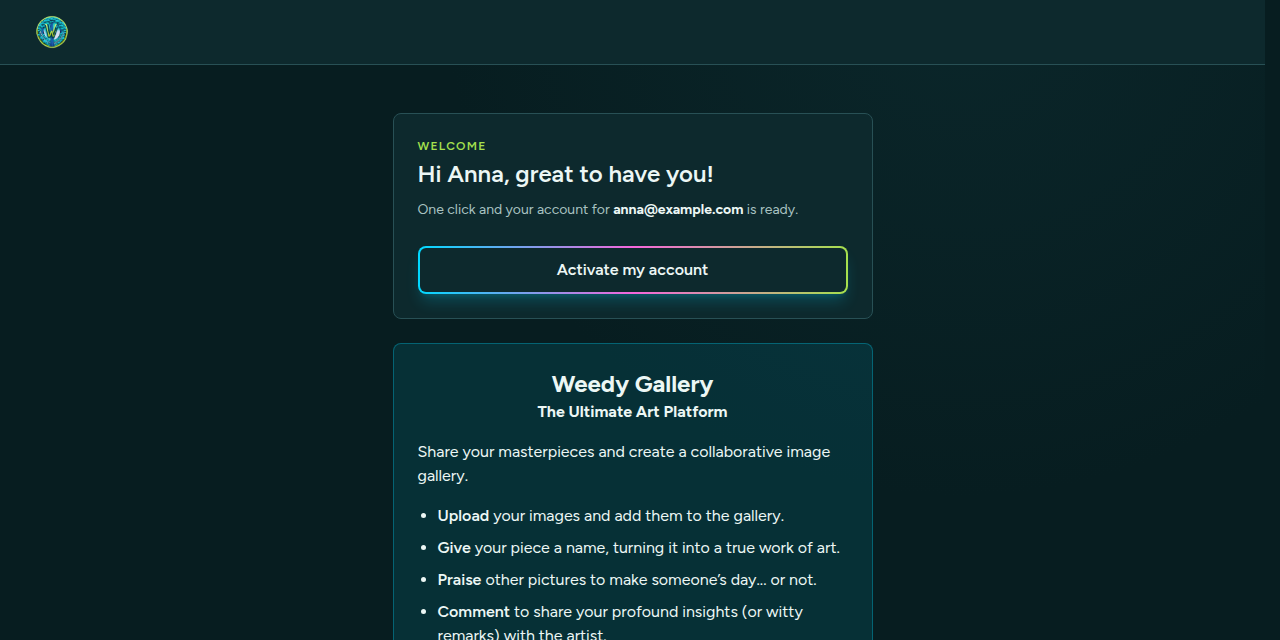
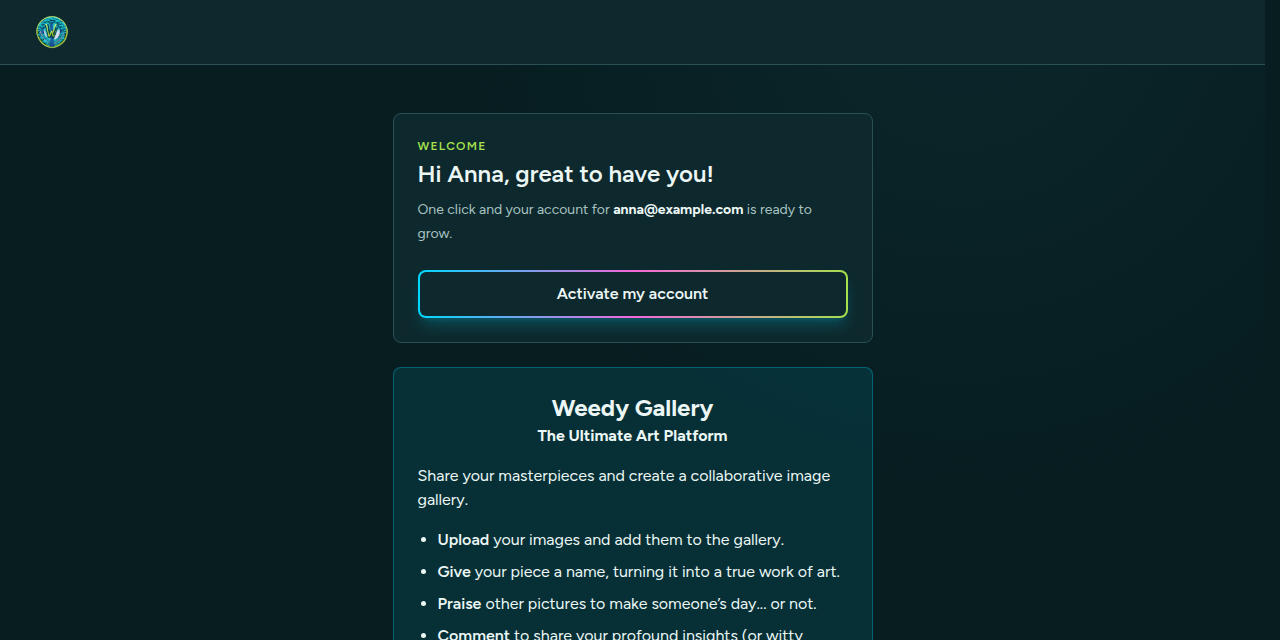
fix(profile): email change link only shows a button, the user confirms it
Like the registration link: a mail scanner opening the link no longer
switches the email, the POST from the button does. Both pages share
x-glow-button. Review of PR #5, point 3 (FEAT-021).

diff --git a/src/tests/Feature/EmailChangeTest.php b/src/tests/Feature/EmailChangeTest.php
@@ -73,7 +73,7 @@ class EmailChangeTest extends TestCase
 
         // Opened on another device without being logged in
         $this->post('/logout');
-        $this->get($link)->assertRedirect(route('login'))->assertSessionHas('status');
+        $this->post($link)->assertRedirect(route('login'))->assertSessionHas('status');
 
         $this->user->refresh();
         $this->assertSame('new@example.com', $this->user->email);
@@ -84,14 +84,17 @@ class EmailChangeTest extends TestCase
         $this->assertAuthenticatedAs($this->user);
     }
 
-    public function test_second_click_after_a_mail_scanner_says_the_email_is_changed(): void
+    public function test_opening_the_link_only_shows_the_button_and_a_used_link_says_changed(): void
     {
         $this->requestChange();
         $link = $this->linkSentTo('new@example.com');
         $this->post('/logout');
 
-        // The scanner opens the link first, then the user clicks it
-        $this->get($link);
+        // A mail scanner opening the link only gets the page with the button
+        $this->get($link)->assertOk()->assertSee('new@example.com')->assertSee('Confirm my new email');
+        $this->assertSame('old@example.com', $this->user->refresh()->email);
+
+        $this->post($link);
         $this->get($link)
             ->assertRedirect(route('login'))
             ->assertSessionHasNoErrors()
@@ -119,7 +122,7 @@ class EmailChangeTest extends TestCase
         $this->get($typoLink)->assertSessionHasErrors('email');
         $this->assertSame('old@example.com', $this->user->refresh()->email);
 
-        $this->get($this->linkSentTo('new@example.com'));
+        $this->post($this->linkSentTo('new@example.com'));
         $this->assertSame('new@example.com', $this->user->refresh()->email);
     }
 
@@ -151,7 +154,7 @@ class EmailChangeTest extends TestCase
         $link = $this->linkSentTo('new@example.com');
         User::factory()->create(['email' => 'new@example.com']);
 
-        $this->get($link)->assertSessionHasErrors('email');
+        $this->post($link)->assertSessionHasErrors('email');
 
         $this->user->refresh();
         $this->assertSame('old@example.com', $this->user->email);

diff --git a/src/app/Http/Controllers/ProfileController.php b/src/app/Http/Controllers/ProfileController.php
@@ -131,14 +131,28 @@ class ProfileController extends Controller
     }
 
     /**
-     * Switch to the pending email from the link in the mail. Needs no login, the signed link
-     * is the proof, so it also works on another device.
+     * The link in the mail only shows a button, so a mail scanner that opens it confirms nothing.
+     */
+    public function showEmailChange(Request $request, User $user, string $hash): View|RedirectResponse
+    {
+        if ($user->pending_email && hash_equals(sha1($user->pending_email), $hash)) {
+            // The signed query string is kept, the POST goes through the same signature check
+            return view('profile.confirm-email', ['user' => $user, 'action' => $request->fullUrl()]);
+        }
+
+        // Nothing to confirm: confirmEmailChange only answers with the matching message
+        return $this->confirmEmailChange($request, $user, $hash);
+    }
+
+    /**
+     * Switch to the pending email from the button on the link page. Needs no login, the signed
+     * link is the proof, so it also works on another device.
      */
     public function confirmEmailChange(Request $request, User $user, string $hash): RedirectResponse
     {
         $target = Auth::check() ? Redirect::route('profile.edit') : Redirect::route('login');
 
-        // Already switched by an earlier click, e.g. a mail scanner that opened the link first
+        // Already switched by an earlier click on the link
         if (hash_equals(sha1($user->email), $hash)) {
             $message = 'Your email is already changed to ' . $user->email . '.';
             return Auth::check() ? $target->with('notif.success', $message) : $target->with('status', $message);

diff --git a/src/resources/views/auth/register-confirm.blade.php b/src/resources/views/auth/register-confirm.blade.php
@@ -8,12 +8,6 @@
 
     <form class="mt-6" method="POST" action="{{ route('register.confirm', $token) }}">
         @csrf
-        {{-- gradient frame in the accent colors, fills on hover --}}
-        <button type="submit"
-            class="group block w-full rounded-lg bg-gradient-to-r from-c-primary via-c-secondary to-c-accent p-0.5 shadow-lg shadow-c-primary/20 transition hover:shadow-c-secondary/30 focus:outline-none focus-visible:ring-2 focus-visible:ring-c-accent focus-visible:ring-offset-2 focus-visible:ring-offset-c-background">
-            <span class="flex min-h-11 items-center justify-center rounded-md bg-c-surface px-4 font-semibold text-c-text transition-colors group-hover:bg-transparent group-hover:text-c-background">
-                {{ __('Activate my account') }}
-            </span>
-        </button>
+        <x-glow-button>{{ __('Activate my account') }}</x-glow-button>
     </form>
 </x-guest-layout>

diff --git a/src/routes/web.php b/src/routes/web.php
@@ -16,9 +16,11 @@ Route::view('/about', 'about')->name('about');
 Route::view('/impressum', 'impressum')->name('impressum');
 
 // Link from the mail after an email change in the profile, works without being logged in
-Route::get('/profile/email/confirm/{user}/{hash}', [ProfileController::class, 'confirmEmailChange'])
+Route::get('/profile/email/confirm/{user}/{hash}', [ProfileController::class, 'showEmailChange'])
     ->middleware(['signed', 'throttle:6,1'])
     ->name('profile.email.confirm');
+Route::post('/profile/email/confirm/{user}/{hash}', [ProfileController::class, 'confirmEmailChange'])
+    ->middleware(['signed', 'throttle:6,1']);
 
 Route::middleware('auth', 'verified')->group(function () {
 

diff --git a/src/resources/views/components/glow-button.blade.php b/src/resources/views/components/glow-button.blade.php
@@ -1,0 +1,6 @@
+{{-- gradient frame in the accent colors, fills on hover --}}
+<button {{ $attributes->merge(['type' => 'submit', 'class' => 'group block w-full rounded-lg bg-gradient-to-r from-c-primary via-c-secondary to-c-accent p-0.5 shadow-lg shadow-c-primary/20 transition hover:shadow-c-secondary/30 focus:outline-none focus-visible:ring-2 focus-visible:ring-c-accent focus-visible:ring-offset-2 focus-visible:ring-offset-c-background']) }}>
+    <span class="flex min-h-11 items-center justify-center rounded-md bg-c-surface px-4 font-semibold text-c-text transition-colors group-hover:bg-transparent group-hover:text-c-background">
+        {{ $slot }}
+    </span>
+</button>

diff --git a/src/resources/views/profile/confirm-email.blade.php b/src/resources/views/profile/confirm-email.blade.php
@@ -1,0 +1,13 @@
+<x-guest-layout focused>
+    <p class="text-xs font-semibold uppercase tracking-widest text-c-accent">{{ __('Almost done') }}</p>
+    <h1 class="mt-1 text-2xl font-semibold text-c-text">{{ __('Hi :name, one last step!', ['name' => $user->name]) }}</h1>
+
+    <p class="mt-2 text-sm leading-6 text-c-muted">
+        {{ __('One click and your account uses') }} <strong class="text-c-text">{{ $user->pending_email }}</strong>.
+    </p>
+
+    <form class="mt-6" method="POST" action="{{ $action }}">
+        @csrf
+        <x-glow-button>{{ __('Confirm my new email') }}</x-glow-button>
+    </form>
+</x-guest-layout>

diff --git a/docs/features/FEAT-021-registration-link-safe-from-mail-scanners.md b/docs/features/FEAT-021-registration-link-safe-from-mail-scanners.md
@@ -1,6 +1,6 @@
 ---
 id: FEAT-021
-title: Registration link safe from mail scanners
+title: Registration and email change links safe from mail scanners
 status: done # backlog | todo | in-progress | review | done
 priority: high # low | medium | high
 category: bugfix # feature | enhancement | bugfix | ui | security
@@ -13,10 +13,10 @@ tags:
   - mail
 ---
 
-# Registration link safe from mail scanners
+# Registration and email change links safe from mail scanners
 
 ## Overview
-The link in the registration mail only opens a welcome page with an "Activate my account" button. The account is created when the user clicks the button.
+The links in the registration mail and in the email change mail only open a page with a button. The account is created, or the new email confirmed, when the user clicks it.
 
 ## Problem Statement
 Outlook Safe Links, Defender and some mail gateways open links in incoming mails on their own. Since FEAT-013 the GET on `register/confirm/{token}` created the account and used up the link. The scanner got the account and the login, and the user then saw "This link does not work (any more)" although the account existed (review of PR #5, point 3).
@@ -26,10 +26,13 @@ Outlook Safe Links, Defender and some mail gateways open links in incoming mails
 - [x] `POST register/confirm/{token}` creates the account and logs in, as before.
 - [x] The page welcomes the user by name and uses the site colours: the button has a gradient frame in primary, secondary and accent and fills on hover.
 - [x] An invalid or expired link still shows the "link does not work" page on GET.
-- [x] Tests and validation passed (container, 173 tests).
+- [x] Email change: `GET profile/email/confirm/{user}/{hash}` (signed) only shows a page with the new email and a "Confirm my new email" button, the `POST` to the same signed URL switches the email.
+- [x] A link that was already used says "Your email is already changed to …" instead of "was not changed".
+- [x] Both pages use the same button (`x-glow-button`).
+- [x] Tests and validation passed (container, 174 tests).
 
 ## Technical Implementation Notes
 - **Affected files / components**: `RegisteredUserController::showConfirm()` (new) and `confirm()` (now POST), `routes/auth.php`, `resources/views/auth/register-confirm.blade.php`, `tests/Feature/Auth/RegistrationTest.php`.
-- **Email change link** (`profile.email.confirm`): stays a GET, the change itself is harmless when a scanner does it. A second click whose hash matches the current email now says "Your email is already changed to …" instead of "was not changed" (`ProfileController::confirmEmailChange()`, `tests/Feature/EmailChangeTest.php`).
-- **Screenshots**: `docs/features/screenshots/FEAT-021-activate-account.png`, `FEAT-021-activate-account-mobile.png`.
+- **Email change**: `ProfileController::showEmailChange()` (new) shows the page only while the link matches the pending email, otherwise it hands over to `confirmEmailChange()`, which then only answers with the matching message. The form posts to `$request->fullUrl()`, so the `signed` middleware checks the same signature on the POST. Tests: `tests/Feature/EmailChangeTest.php`.
+- **Screenshots**: `docs/features/screenshots/FEAT-021-activate-account.png`, `FEAT-021-activate-account-mobile.png`, `FEAT-021-confirm-new-email.png`.
 - **Related**: FEAT-013.

diff --git a/docs/pull-request.md b/docs/pull-request.md
@@ -36,7 +36,7 @@ Outlook Safe Links, Defender und manche Gmail-Prefetcher rufen Links aus Mails a
 - [ProfileController.php:142](src/app/Http/Controllers/ProfileController.php#L142): Hier gilt dasselbe. Beim zweiten Klick steht da „Your email was not changed“, obwohl die E-Mail längst geändert ist. Die Meldung ist schlicht falsch.
 - **Fix:** Per GET nur eine Seite mit Button zeigen, die eigentliche Aktion per POST ausführen. Für die E-Mail-Änderung zusätzlich prüfen: Wenn `sha1($user->email) === $hash`, die Erfolgsmeldung zeigen.
 - ✅ **Registrierung erledigt (FEAT-021):** Der Link zeigt eine Willkommensseite mit Button, erst der POST legt das Konto an.
-- ✅ **E-Mail-Änderung erledigt:** Passt der Hash im Link schon zur aktuellen E-Mail, kommt „Your email is already changed to …“ statt der falschen Fehlermeldung.
+- ✅ **E-Mail-Änderung erledigt (FEAT-021):** Auch hier zeigt der Link nur eine Seite mit Button, erst der POST wechselt die E-Mail. Ein schon benutzter Link sagt „Your email is already changed to …“ statt der falschen Fehlermeldung.
 
 **4. `POST /register` hat kein Throttle**
 Betroffen ist [routes/auth.php:19](src/routes/auth.php#L19).
